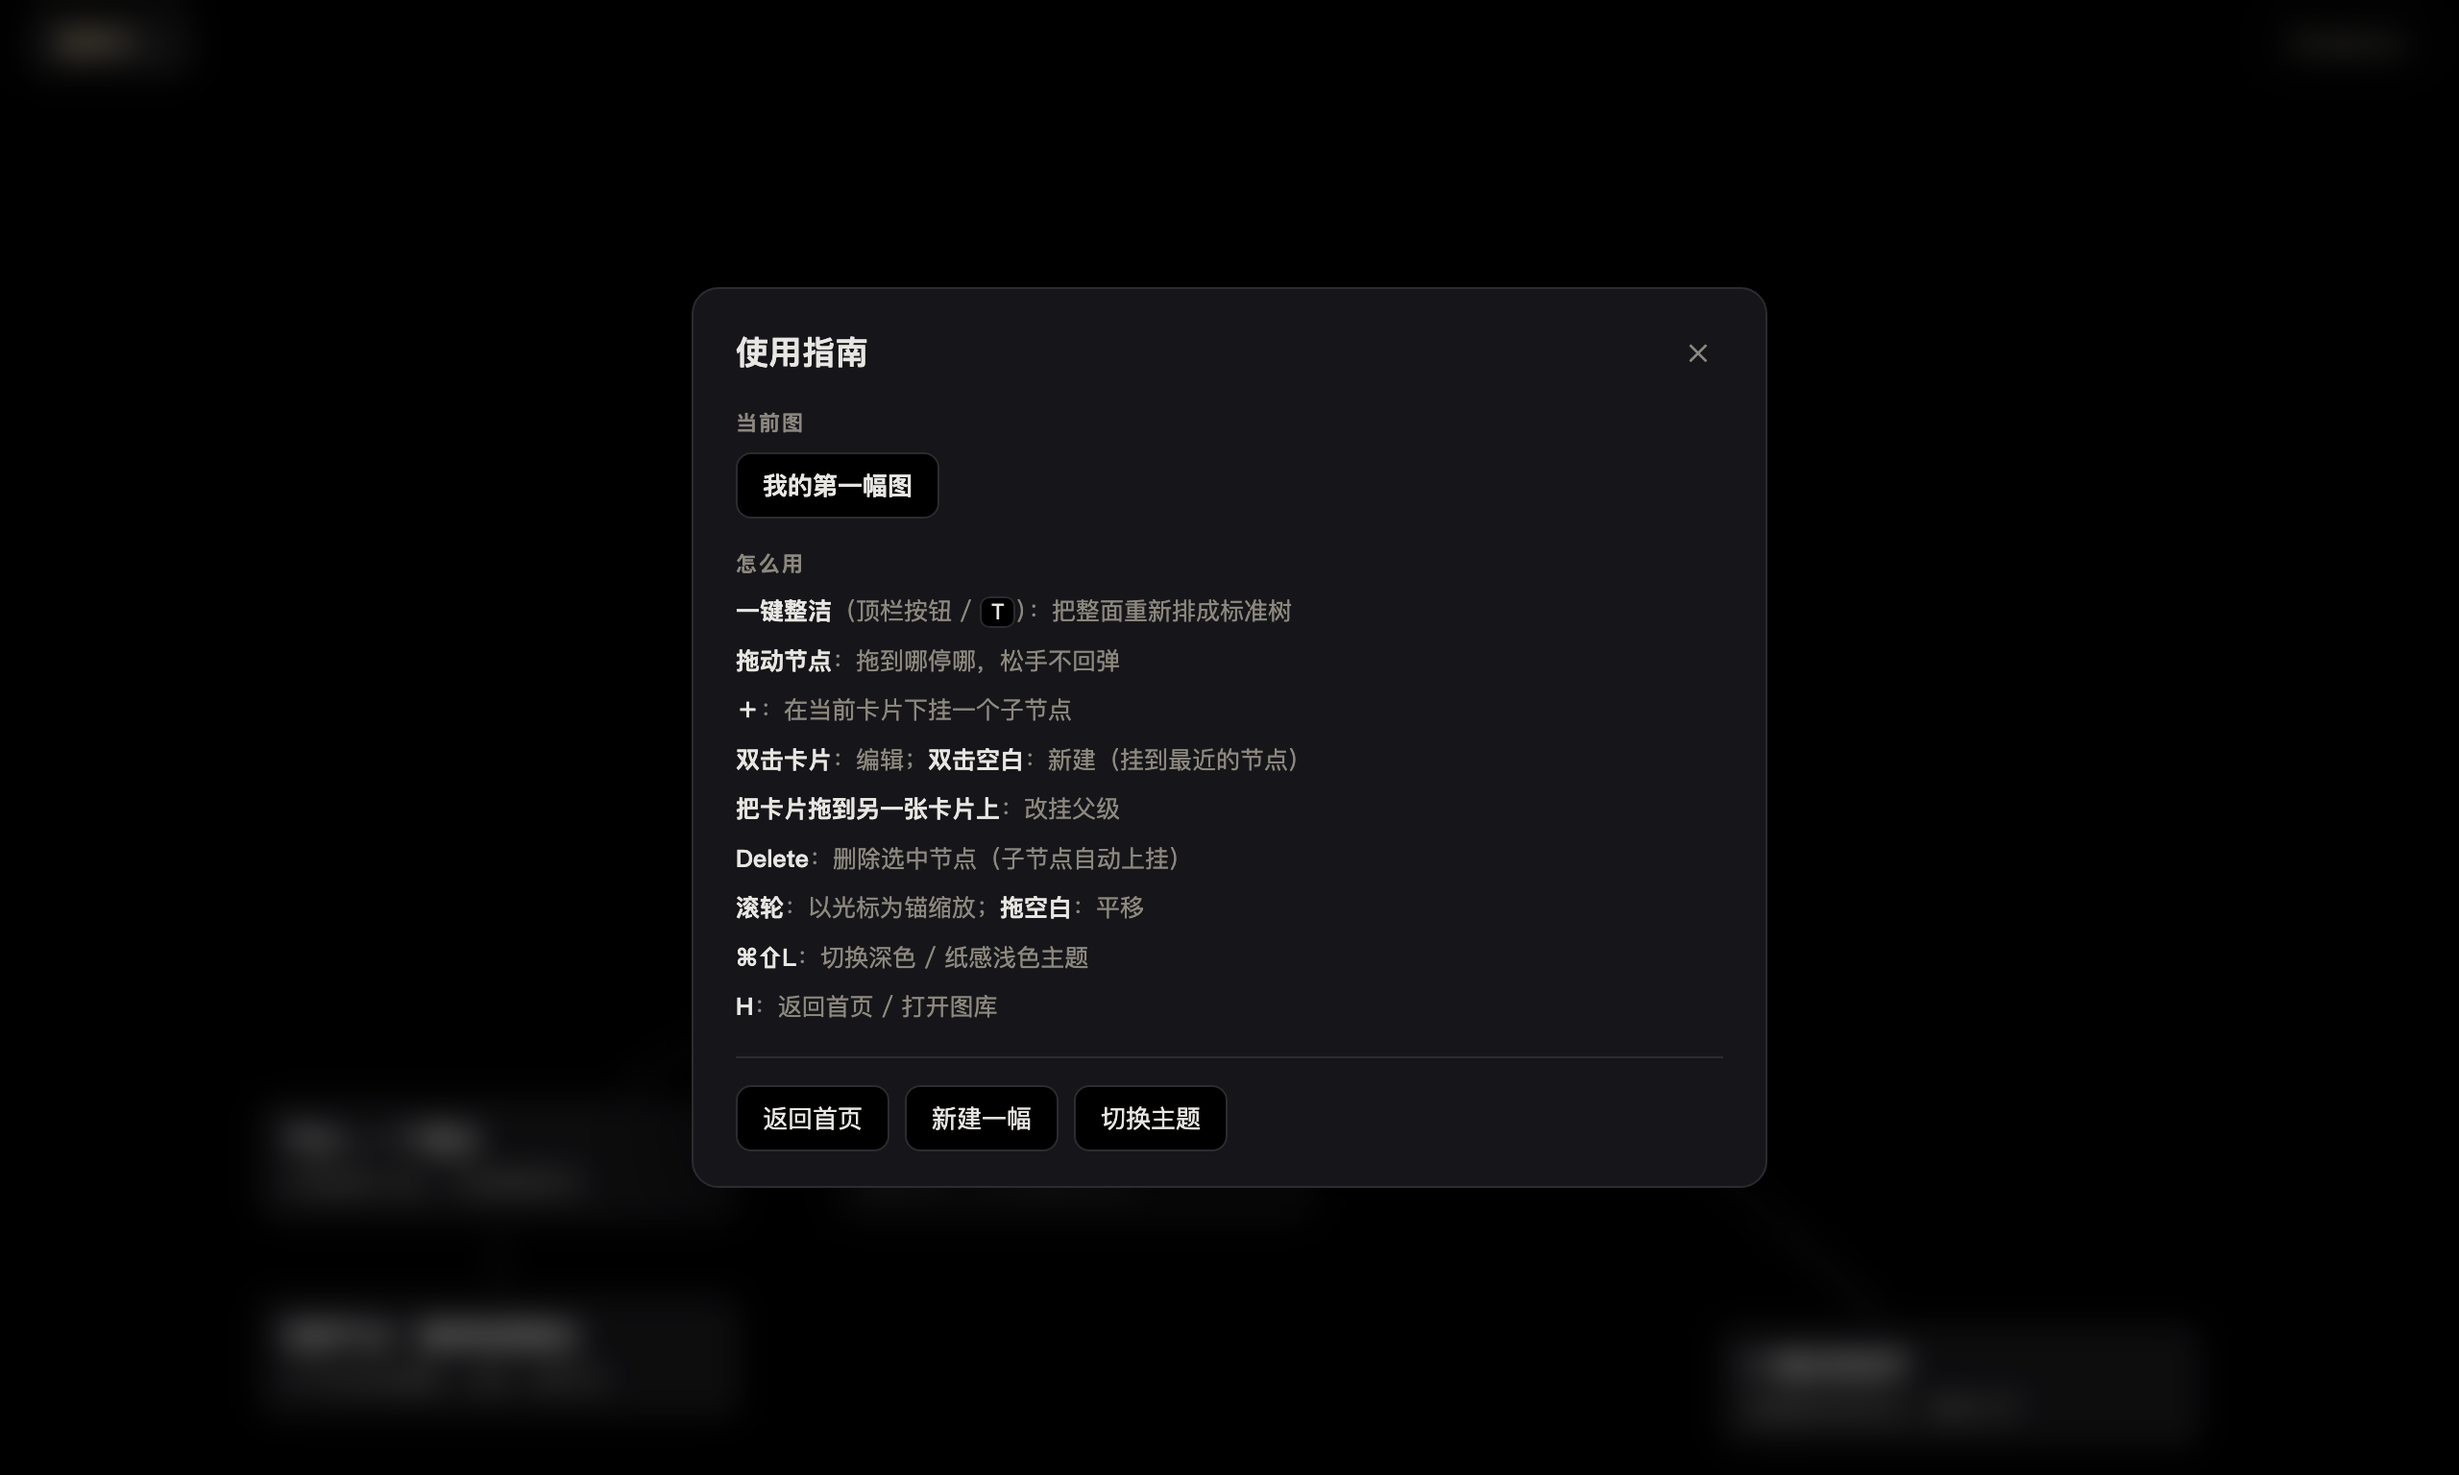
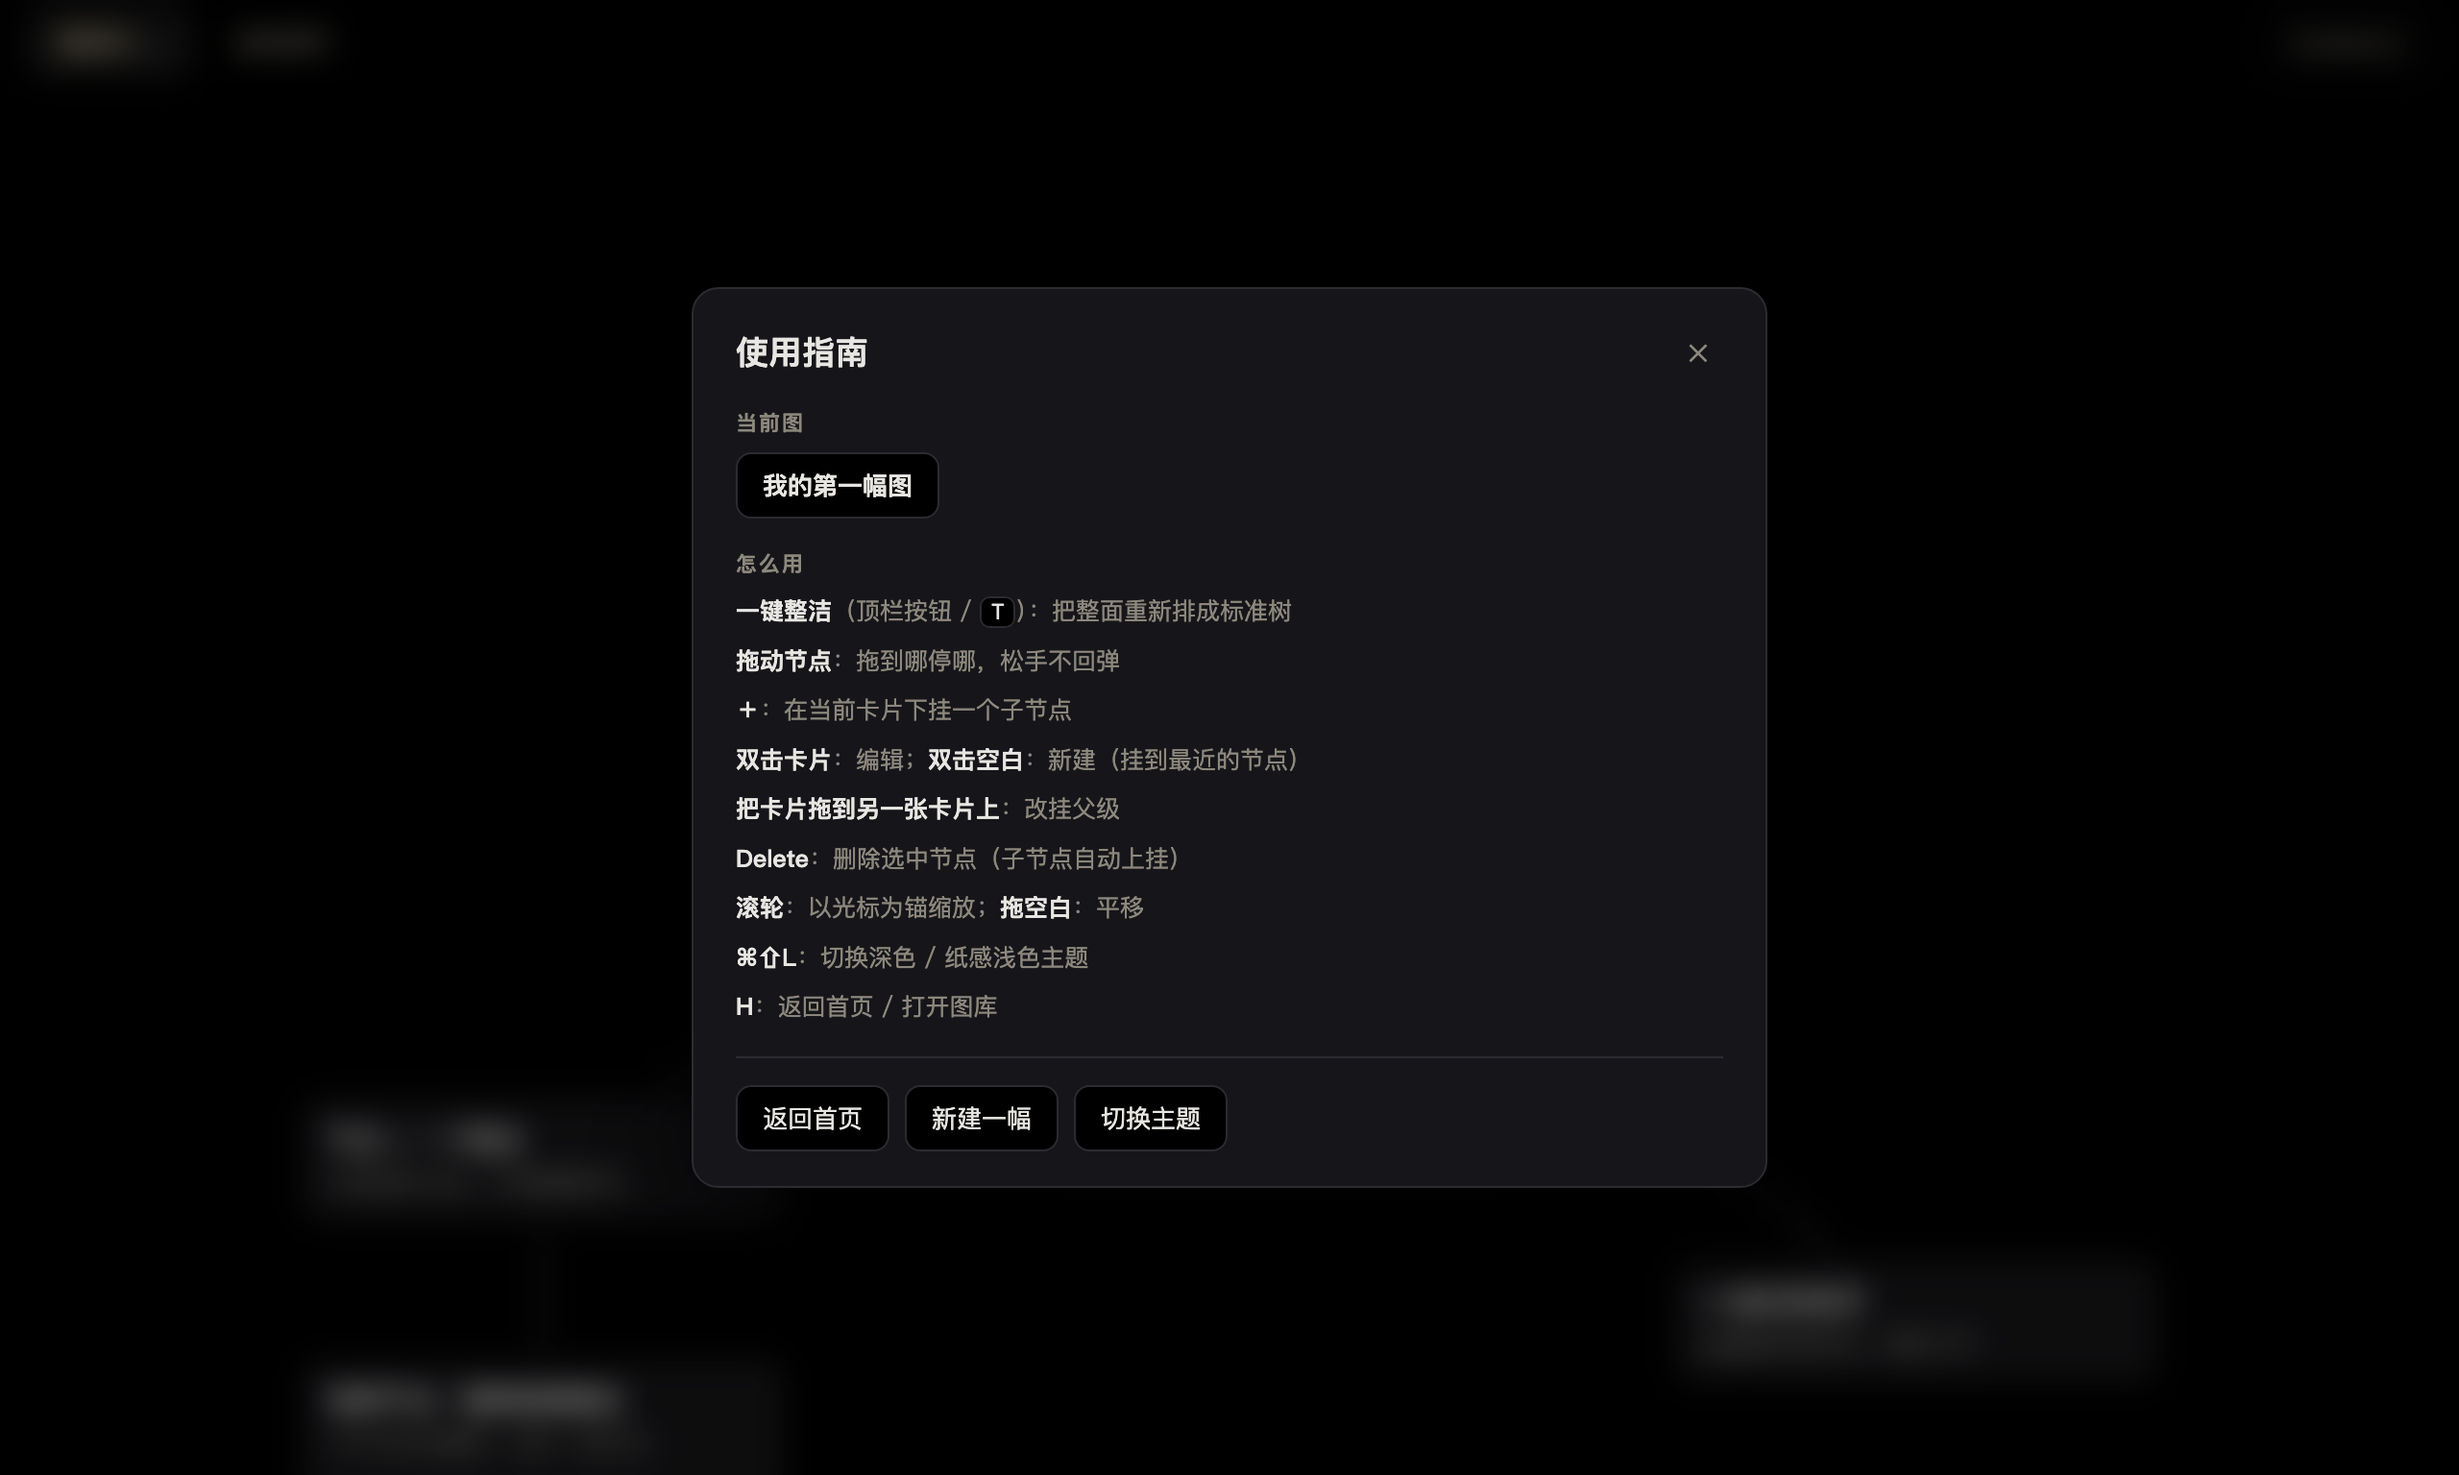
feat(v0.7.2): add a 返回首页 button next to 一键整洁
- Top bar is now 一键整洁 + 返回首页 + Guidance. The new #home-top-btn
  always opens the library (H still works, the library keeps its own
  'back to current board' button).
- home-check drives the new button and asserts topHome.
- Refresh docs screenshots, update READMEs, bump to 0.7.2.

diff --git a/renderer/app.js b/renderer/app.js
@@ -639,6 +639,10 @@
     if (homeVisible()) showHome(false);
     else showHome(true);
   });
+  // The top bar's quick "返回首页" (next to 一键整洁): always opens the library.
+  // The library's own "← 返回当前图" button takes you back to the board.
+  var homeTopBtn = document.getElementById('home-top-btn');
+  if (homeTopBtn) homeTopBtn.addEventListener('click', function () { showHome(true); });
   // The top bar no longer carries a back arrow, so the library gets its own
   // visible "return to the current board" button.
   var homeBackBtn = document.getElementById('home-back');
@@ -1587,7 +1591,10 @@
   // one, so the reload check afterwards still finds the edited board.
   window.__cardwallHomeCheck = function () {
     var out = {};
-    homeBtn.click();
+    // Exercise the top-bar "返回首页" button (the one next to 一键整洁).
+    var topHome = document.getElementById('home-top-btn');
+    out.topHome = !!topHome;
+    (topHome || homeBtn).click();
     out.visible = !homeEl.hidden;
     var before = 0;
     return renderHome() // the overlay renders asynchronously; wait for it
@@ -1627,9 +1634,9 @@
       })
       .then(function (list) {
         out.listAfterDelete = list.length;
-        out.ok = out.visible && out.cards >= 1 && out.created && out.opened &&
-          out.blankCard && out.listAfterCreate === before + 1 && out.hasNew &&
-          out.renamed && out.renameVisible && out.deleted &&
+        out.ok = out.visible && out.topHome && out.cards >= 1 && out.created &&
+          out.opened && out.blankCard && out.listAfterCreate === before + 1 &&
+          out.hasNew && out.renamed && out.renameVisible && out.deleted &&
           out.listAfterDelete === before;
         return out;
       });

diff --git a/styles.css b/styles.css
@@ -329,6 +329,30 @@ body {
   100% { transform: scale(1);    box-shadow: 0 0 0 0 rgba(201, 169, 80, 0); }
 }
 
+/* Quick "back to the library" right next to the main action; quiet by
+   default so 一键整洁 stays the visually dominant button. */
+#home-top-btn {
+  pointer-events: auto;
+  font: inherit;
+  font-size: 12.5px;
+  font-weight: 500;
+  color: var(--muted);
+  background: transparent;
+  border: 1px solid transparent;
+  border-radius: 8px;
+  padding: 6px 11px;
+  cursor: pointer;
+  transition: transform 90ms ease, background 120ms ease, color 120ms ease, border-color 120ms ease;
+}
+
+#home-top-btn:hover {
+  color: var(--ink);
+  border-color: var(--surface-border);
+  background: var(--surface);
+}
+
+#home-top-btn:active { transform: scale(0.93); }
+
 #guidance-btn {
   pointer-events: auto;
   margin-left: auto; /* sit at the far right, away from the tidy action */

diff --git a/index.html b/index.html
@@ -11,6 +11,7 @@
   <div id="app">
     <header id="toolbar">
       <button id="tidy-btn" type="button" title="一键整洁：把整面重新排成标准树（T）" aria-label="一键整洁">一键整洁</button>
+      <button id="home-top-btn" type="button" title="返回首页（H）" aria-label="返回首页">返回首页</button>
       <button id="guidance-btn" type="button" title="使用指南" aria-label="使用指南">Guidance</button>
     </header>
     <div id="viewport">

diff --git a/README.en.md b/README.en.md
@@ -14,7 +14,7 @@ Name as many boards as you like and open any of them from the home screen.
 
 ## Home: named boards
 
-Press `H`, or open the top-right **Guidance** panel and hit **Home**. Name a board as you create it, switch whenever you want; deleted boards go to the system trash, so a misclick is undoable. **A newly created board opens with one blank, unnamed card in the middle**, ready to type into.
+Press `H`, or click **Home** in the top bar (right next to one-click tidy). Name a board as you create it, switch whenever you want; deleted boards go to the system trash, so a misclick is undoable. **A newly created board opens with one blank, unnamed card in the middle**, ready to type into.
 
 ![home](docs/home.png)
 
@@ -27,7 +27,7 @@ Press `H`, or open the top-right **Guidance** panel and hit **Home**. Name a boa
 | Action | Gesture |
 |---|---|
 | **Guidance** | Click **Guidance** at the top-right: a floating panel dims and **blurs + locks** the board behind it, listing every gesture and offering **Home / New board / Toggle theme**. `Esc` or ✕ closes it |
-| Home / open another board | `H`, or hit **Home** inside Guidance; click any card to open |
+| Home / open another board | `H`, or click **Home** in the top bar (also available inside Guidance); click any card to open |
 | Rename the current board | Click the board name in Guidance's "Current board" section (or "rename" on a home card) |
 | Edit a card | Hover it → click ✎ on the action bar, **or just double-click** (Escape cancels, Enter commits) |
 | **New child node** | Hover it → click ＋: a child card fans out **below-right** of this card (never on top of the parent) and opens straight into edit mode |
@@ -82,9 +82,9 @@ The layout is **deterministic**: the same structure always packs into the same d
 
 In tidy mode a card sits exactly on its tree target (the spring is zero and no other force acts), so the wall is a **fixed picture**, not a pile of cards that jitters forever; and because repulsion only acts during a drag, a quiet card's net force falls below the sleep threshold and it truly goes to sleep. In free mode the same holds — cards simply hold where you left them, untugged.
 
-### The top bar keeps just two buttons
+### The top bar keeps just three buttons
 
-Since v0.7 the top bar does less on purpose: only **one-click tidy** and a **Guidance** button at the far right. Home, the board name, the hint text and the theme toggle all moved into the **Guidance** panel — pressing it floats above the canvas, **blurs and locks the board behind it**, and only `Esc` / ✕ / an in-panel action dismisses it. The canvas stays clean and the main action stays one click away.
+Since v0.7 the top bar does less on purpose: only **one-click tidy**, **Home**, and a **Guidance** button at the far right. The board name, the hint text and the theme toggle all moved into the **Guidance** panel — pressing it floats above the canvas, **blurs and locks the board behind it**, and only `Esc` / ✕ / an in-panel action dismisses it. The canvas stays clean, the main action stays one click away, and going home no longer needs a detour through the panel.
 
 **Every node belongs to the tree**: there is no "pin" exception anymore, so one-click tidy re-flows every card; in free mode each card simply holds where you left it.
 

diff --git a/README.md b/README.md
@@ -14,7 +14,7 @@
 
 ## 首页：多幅图，各自命名
 
-`H`，或点右上角 **Guidance** 打开使用指南、再点「返回首页」。起名即建，随时切换；删除的文件进系统废纸篓，能反悔。**新建一幅图时，画布正中会先放一张空白未命名节点**，直接开始写就行。
+`H`，或点顶栏的 **返回首页**（就在「一键整洁」旁边）。起名即建，随时切换；删除的文件进系统废纸篓，能反悔。**新建一幅图时，画布正中会先放一张空白未命名节点**，直接开始写就行。
 
 ![home](docs/home.png)
 
@@ -27,7 +27,7 @@
 | 动作 | 手势 |
 |---|---|
 | **使用指南** | 点顶栏右上角的 **Guidance**：浮出**使用指南**面板——背景**虚化并锁定**，里面有全部手势说明和「返回首页 / 新建一幅 / 切换主题」。`Esc` 或右上角 ✕ 关闭 |
-| 回首页 / 打开别的图 | `H`，或在「使用指南」里点**返回首页**；点任意卡片打开 |
+| 回首页 / 打开别的图 | `H`，或点顶栏的**返回首页**（也在 Guidance 里）；点任意卡片打开 |
 | 重命名当前图 | 在「使用指南」的「当前图」里点图名（或首页卡片上的「重命名」） |
 | 编辑卡片 | 悬停卡片 → 点操作条上的 ✎，**或直接双击卡片**（Escape 取消，Enter 提交） |
 | **新建子节点** | 悬停卡片 → 点操作条上的 ＋：在该卡**下方右侧扇出**一张子卡（绝不会盖在父卡上），直接进编辑 |
@@ -84,9 +84,9 @@
 
 静止时卡片正好落在树目标上（弹簧归零、没有别的力），所以整面墙是**固定的一张图**，不是一直在抖的一堆卡片；且因为排斥只在拖动时生效，安静的卡片合力低于休眠阈值，会真正睡着。
 
-### 顶栏只剩两个按钮
+### 顶栏只剩三个按钮
 
-v0.7 起顶栏做了减法：只留「一键整洁」和右上角的 **Guidance**。原来的首页、图名、提示文字、主题开关都收进**使用指南**面板——点 **Guidance** 时它浮在画布上方、**虚化并锁定背景**，只有 `Esc` / ✕ / 面板内操作才能退出。画布因此更干净，主操作只剩最常用的那一个。
+v0.7 起顶栏做了减法：只留「一键整洁」「返回首页」和右上角的 **Guidance**。原来的图名、提示文字、主题开关都收进**使用指南**面板——点 **Guidance** 时它浮在画布上方、**虚化并锁定背景**，只有 `Esc` / ✕ / 面板内操作才能退出。画布因此更干净，主操作只剩最常用的那一个，回首页也不用再绕进面板。
 
 **每个节点都归树所有**：没有「钉住」这种例外，按「一键整洁」时所有卡片都会参与重排；自由态下各卡停在原地。
 
